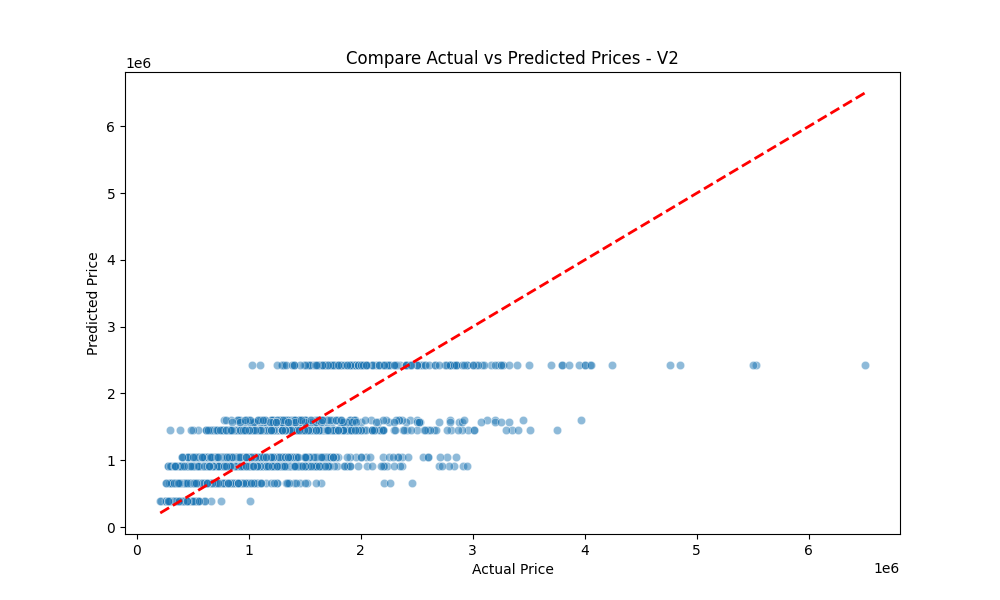
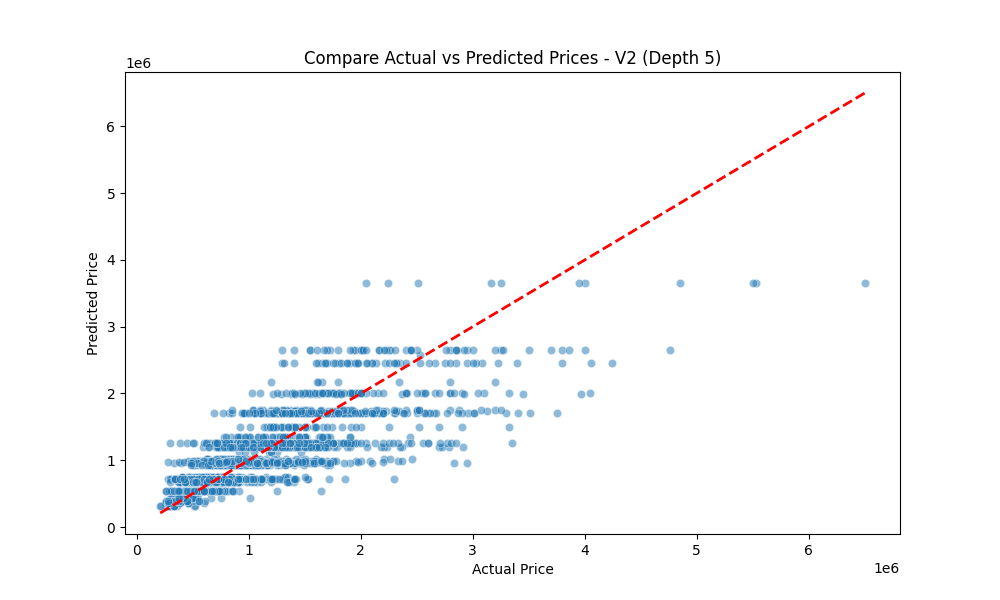
optimize Decision Tree with Feature Selection & Data Cleaning.

diff --git a/DecisionTree/DecisionTree_v2.py b/DecisionTree/DecisionTree_v2.py
@@ -13,32 +13,37 @@ import matplotlib.pyplot as plt
 import seaborn as sns
 from log import log_results
 
-# 1. Xác định các đặc trưng quan trọng từ mô hình ban đầu
+# 1. Xác định các đặc trưng quan trọng từ mô hình ban đầu (Vẫn để cây mọc tự do để tìm Top 5 chuẩn nhất)
 temp_model = DecisionTreeRegressor(random_state=42)
 temp_model.fit(dt.X_train, dt.y_train)
 importances = temp_model.feature_importances_
 indices = np.argsort(importances)[-5:] # Lấy Top 5 quan trọng nhất
 selected_features = [dt.X.columns[i] for i in indices]
 
-# 2. Huấn luyện mô hình cải tiến
+# 2. Huấn luyện mô hình cải tiến với max_depth=5
 X_train_fs = dt.X_train[selected_features]
 X_valid_fs = dt.X_valid[selected_features]
-model_v2 = DecisionTreeRegressor(random_state=42, max_depth=3)
+model_v2 = DecisionTreeRegressor(random_state=42, max_depth=5)
 model_v2.fit(X_train_fs, dt.y_train)
 
-# 3. Vẽ cấu trúc cây (Lưu vào V2)
+# 3. Vẽ cấu trúc cây (Chỉ hiển thị đến tầng thứ 3 để dễ đọc trong báo cáo)
 plt.figure(figsize=(33,20))
-plot_tree(model_v2, feature_names=selected_features, filled=True, rounded=True, fontsize=10)
-plt.title("Decision Tree Structure - Improvement V2 (Feature Selection)")
+plot_tree(model_v2, 
+          feature_names=selected_features, 
+          filled=True, 
+          rounded=True, 
+          fontsize=10,
+          max_depth=3) # <--- Chỉ giới hạn hiển thị khi vẽ
+plt.title("Decision Tree Structure - Improvement V2 (Trained depth=5, Plotted depth=3)")
 plt.savefig('./Image/V2/Decision_Tree_Structure_v2.png')
 
-# 4. Đánh giá và ghi Log
+# 4. Đánh giá và ghi Log (Dựa trên mô hình depth=5)
 y_pred = model_v2.predict(X_valid_fs)
 mae = mean_absolute_error(dt.y_valid, y_pred)
 mse = mean_squared_error(dt.y_valid, y_pred)
 rmse = np.sqrt(mse)
 r2 = r2_score(dt.y_valid, y_pred)
-log_results("Model V2 - Feature Selection", mae, mse, rmse, r2)
+log_results("Model V2 - Feature Selection (Depth 5)", mae, mse, rmse, r2)
 
 # 5. Vẽ biểu đồ Compare (Scatter)
 plt.figure(figsize=(10, 6))
@@ -46,15 +51,17 @@ sns.scatterplot(x=dt.y_valid, y=y_pred, alpha=0.5)
 plt.plot([dt.y_valid.min(), dt.y_valid.max()], [dt.y_valid.min(), dt.y_valid.max()], '--r', linewidth=2)
 plt.xlabel("Actual Price")
 plt.ylabel("Predicted Price")
-plt.title("Compare Actual vs Predicted Prices - V2")
+plt.title("Compare Actual vs Predicted Prices - V2 (Depth 5)")
 plt.savefig('./Image/V2/Actual_vs_Predicted_V2.png')
 
 # 6. Vẽ biểu đồ Feature Importance
 feat_importances = model_v2.feature_importances_
 feat_indices = np.argsort(feat_importances)
 plt.figure(figsize=(10, 6))
-plt.title('Important Factors Affecting House Prices - V2')
+plt.title('Important Factors Affecting House Prices - V2 (Depth 5)')
 plt.barh(range(len(feat_indices)), feat_importances[feat_indices], color='b', align='center')
 plt.yticks(range(len(feat_indices)), [selected_features[i] for i in feat_indices])
 plt.xlabel('Relative Importance')
 plt.savefig('./Image/V2/Feature_Importance_V2.png')
+
+plt.show()

diff --git a/DecisionTree/DecisionTree_v3.py b/DecisionTree/DecisionTree_v3.py
@@ -26,23 +26,28 @@ X = df.drop(columns=['Price'])
 y = df['Price']
 X_train, X_valid, y_train, y_valid = train_test_split(X, y, test_size=0.2, random_state=42)
 
-# 2. Huấn luyện
-model_v3 = DecisionTreeRegressor(random_state=42, max_depth=3)
+# 2. Huấn luyện với max_depth=5 để tăng độ chính xác
+model_v3 = DecisionTreeRegressor(random_state=42, max_depth=5)
 model_v3.fit(X_train, y_train)
 
-# 3. Vẽ cấu trúc cây (Lưu vào V3)
+# 3. Vẽ cấu trúc cây (Chỉ hiển thị đến tầng thứ 3 để hình đẹp)
 plt.figure(figsize=(33,20))
-plot_tree(model_v3, feature_names=X.columns.tolist(), filled=True, rounded=True, fontsize=10)
-plt.title("Decision Tree Structure - Improvement V3 (Missing Values)")
+plot_tree(model_v3, 
+          feature_names=X.columns.tolist(), 
+          filled=True, 
+          rounded=True, 
+          fontsize=10,
+          max_depth=3) # <--- Chỉnh hiển thị lúc vẽ ở đây
+plt.title("Decision Tree Structure - Improvement V3 (Trained depth=5, Plotted depth=3)")
 plt.savefig('./Image/V3/Decision_Tree_Structure_v3.png')
 
-# 4. Đánh giá
+# 4. Đánh giá (Tính toán dựa trên mô hình depth=5)
 y_pred = model_v3.predict(X_valid)
 mae = mean_absolute_error(y_valid, y_pred)
 mse = mean_squared_error(y_valid, y_pred)
 rmse = np.sqrt(mse)
 r2 = r2_score(y_valid, y_pred)
-log_results("Model V3 - Missing Values", mae, mse, rmse, r2)
+log_results("Model V3 - Missing Values (Depth 5)", mae, mse, rmse, r2)
 
 # 5. Vẽ biểu đồ Compare
 plt.figure(figsize=(10, 6))
@@ -62,3 +67,5 @@ plt.barh(range(len(indices)), importances[indices], color='b', align='center')
 plt.yticks(range(len(indices)), [X.columns[i] for i in indices])
 plt.xlabel('Relative Importance')
 plt.savefig('./Image/V3/Feature_Importance_V3.png')
+
+plt.show()
